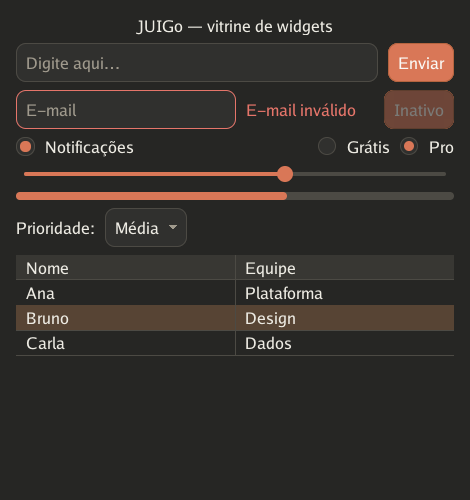
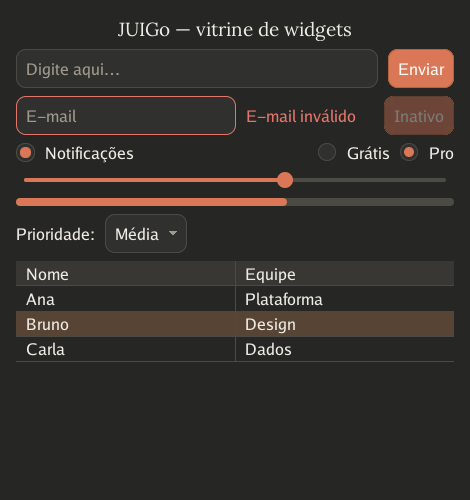
docs: DESIGN.md 2.0 — tipografia, componentes, espaçamento e movimento
O design system vai além das cores: seções de tipografia (papéis, regras
de uso, display trocável), hierarquia de componentes (um primário por
bloco; cartão é agrupamento, não decoração; fio só dentro de
superfícies), régua de espaçamento e movimento (Navigator como o
movimento do sistema). Cena nova 'identidade' no docs/gerar (título
serif, Card com Divider e as três hierarquias de botão) vira a capa do
DESIGN.md e do README; vitrines regeneradas (cabeçalho agora usa
Subtitle). Testes uitest: escala tipográfica decrescente nos dois temas,
variantes por pixels (inclusive hover do ghost), superfície/fio/respiro
do Card e golden incremental da cena de identidade.

diff --git a/uitest/designsystem_test.go b/uitest/designsystem_test.go
@@ -1,0 +1,146 @@
+package uitest_test
+
+import (
+	"bytes"
+	"image"
+	"testing"
+
+	"github.com/JonathanSantos/JUIGo"
+	"github.com/JonathanSantos/JUIGo/uitest"
+)
+
+// TestPapeisTipograficos confere a escala: Título > Subtítulo > corpo >
+// legenda em altura de linha, nos temas Default e Claude (a serif Lora do
+// Claude mede diferente da Go Bold, mas a ORDEM é invariante do sistema).
+func TestPapeisTipograficos(t *testing.T) {
+	titulo := juigo.NewText("Relatório").Title()
+	sub := juigo.NewText("Relatório").Subtitle()
+	corpo := juigo.NewText("Relatório")
+	legenda := juigo.NewText("Relatório").Caption()
+	ui := juigo.NewVBox(titulo, sub, corpo, legenda)
+
+	verifica := func(nome string) {
+		t.Helper()
+		ht, hs, hc, hl := titulo.PreferredSize().Y, sub.PreferredSize().Y,
+			corpo.PreferredSize().Y, legenda.PreferredSize().Y
+		if !(ht > hs && hs > hc && hc > hl) {
+			t.Fatalf("%s: a escala deveria decrescer Título>Subtítulo>corpo>legenda; veio %d/%d/%d/%d",
+				nome, ht, hs, hc, hl)
+		}
+	}
+
+	h := uitest.New(t, ui, 400, 300)
+	verifica("Default")
+
+	claude, err := juigo.ClaudeTheme()
+	if err != nil {
+		t.Fatal(err)
+	}
+	h.Session().SetTheme(claude)
+	h.Layout()
+	verifica("Claude")
+}
+
+// TestBotoesHierarquia confere as três variantes por pixels no tema Claude:
+// primário terracota, secundário na superfície com fio, ghost invisível em
+// repouso e com fundo de hover sob o ponteiro.
+func TestBotoesHierarquia(t *testing.T) {
+	claude, err := juigo.ClaudeTheme()
+	if err != nil {
+		t.Fatal(err)
+	}
+	prim := juigo.NewButton("Pagar", nil)
+	sec := juigo.NewButton("Extrato", nil).Secondary()
+	ghost := juigo.NewButton("Cancelar", nil).Ghost()
+	ui := juigo.NewVBox(prim, sec, ghost).Pad(20).Gap(12)
+	h := uitest.NewWithTheme(t, ui, claude, 300, 260)
+
+	dentro := func(w juigo.Widget) image.Point {
+		b := w.Bounds()
+		return image.Pt(b.Min.X+8, b.Min.Y+b.Dy()/2)
+	}
+	img := h.Screenshot()
+	if got, quer := img.RGBAAt(dentro(prim).X, dentro(prim).Y), claude.ButtonNormal; got != quer {
+		t.Fatalf("primário deveria ser terracota %v; veio %v", quer, got)
+	}
+	if got, quer := img.RGBAAt(dentro(sec).X, dentro(sec).Y), claude.Surface; got != quer {
+		t.Fatalf("secundário deveria ter fundo de superfície %v; veio %v", quer, got)
+	}
+	if got, quer := img.RGBAAt(dentro(ghost).X, dentro(ghost).Y), claude.Background; got != quer {
+		t.Fatalf("ghost em repouso deveria mostrar o papel %v; veio %v", quer, got)
+	}
+
+	h.Hover(uitest.Text("Cancelar"))
+	img = h.Screenshot()
+	if got, quer := img.RGBAAt(dentro(ghost).X, dentro(ghost).Y), claude.HoverBackground; got != quer {
+		t.Fatalf("ghost sob o ponteiro deveria ganhar hover %v; veio %v", quer, got)
+	}
+}
+
+// TestCardEDivider confere superfície, fio e o respiro padrão do cartão.
+func TestCardEDivider(t *testing.T) {
+	claude, err := juigo.ClaudeTheme()
+	if err != nil {
+		t.Fatal(err)
+	}
+	miolo := juigo.NewVBox(juigo.NewText("Conteúdo"), juigo.NewDivider(), juigo.NewText("Resto"))
+	card := juigo.NewCard(miolo)
+	ui := juigo.NewVBox(card).Pad(16)
+	h := uitest.NewWithTheme(t, ui, claude, 320, 240)
+	img := h.Screenshot()
+
+	b := card.Bounds()
+	centroX := b.Min.X + b.Dx()/2
+	if got := img.RGBAAt(centroX, b.Min.Y+4); got != claude.Surface {
+		t.Fatalf("o miolo do cartão deveria ser a superfície %v; veio %v", claude.Surface, got)
+	}
+	if got := img.RGBAAt(centroX, b.Min.Y); got != claude.SurfaceBorder {
+		t.Fatalf("a beirada do cartão deveria ser o fio %v; veio %v", claude.SurfaceBorder, got)
+	}
+	// Respiro padrão: o conteúdo começa 2×Padding para dentro.
+	pad := claude.Px(2 * claude.Padding)
+	if got := miolo.Bounds().Min.X - b.Min.X; got != pad {
+		t.Fatalf("o respiro interno deveria ser %dpx; veio %d", pad, got)
+	}
+}
+
+// TestIncrementalIdentidade é a rede de segurança das dirty regions para os
+// componentes novos: títulos serif, Card, Divider e variantes de botão.
+func TestIncrementalIdentidade(t *testing.T) {
+	claude, err := juigo.ClaudeTheme()
+	if err != nil {
+		t.Fatal(err)
+	}
+	rotulo := juigo.NewText("Fatura").Title()
+	ui := juigo.NewVBox(
+		rotulo,
+		juigo.NewCard(juigo.NewVBox(
+			juigo.NewText("Cobrança").Subtitle(),
+			juigo.NewDivider(),
+			juigo.NewHBox(
+				juigo.NewButton("Cancelar", nil).Ghost(),
+				juigo.NewButton("Extrato", nil).Secondary(),
+				juigo.NewButton("Pagar", nil),
+			).Gap(8),
+		).Gap(8)),
+	).Pad(16).Gap(10)
+	h := uitest.NewWithTheme(t, ui, claude, 420, 260)
+
+	verifica := func(passo string) {
+		t.Helper()
+		incremental := h.Screenshot()
+		h.Session().InvalidateAll()
+		completo := h.Screenshot()
+		if !bytes.Equal(incremental.Pix, completo.Pix) {
+			t.Fatalf("%s: render incremental divergiu do completo", passo)
+		}
+	}
+
+	verifica("frame inicial")
+	h.Hover(uitest.Text("Cancelar"))
+	verifica("hover no ghost")
+	h.Hover(uitest.Text("Pagar"))
+	verifica("hover no primário")
+	rotulo.SetText("Fatura de julho")
+	verifica("título serif maior")
+}

diff --git a/docs/gerar/main.go b/docs/gerar/main.go
@@ -35,7 +35,7 @@ func vitrine() juigo.Widget {
 	}).BindSelected(selecionada)
 
 	return juigo.NewVBox(
-		juigo.NewText("JUIGo — vitrine de widgets").Center(),
+		juigo.NewText("JUIGo — vitrine de widgets").Subtitle().Center(),
 		juigo.NewHBox(
 			juigo.Grow(juigo.NewInput("Digite aqui…"), 1),
 			juigo.NewButton("Enviar", nil),
@@ -61,6 +61,28 @@ func vitrine() juigo.Widget {
 		),
 		tabela,
 	).Pad(16).Gap(8)
+}
+
+// identidade monta a cena do design system: hierarquia tipográfica (Title/
+// Subtitle/Caption), Card com Divider e as três hierarquias de botão.
+func identidade() juigo.Widget {
+	return juigo.NewVBox(
+		juigo.NewText("Fatura de julho").Title(),
+		juigo.NewText("Papel, tinta e terracota").Subtitle(),
+		juigo.NewCard(juigo.NewVBox(
+			juigo.NewText("Cobrança automática").Subtitle(),
+			juigo.NewText("O cartão termina em 4242 e renova no dia 12."),
+			juigo.NewText("Atualizado há 2 minutos").Caption(),
+			juigo.NewDivider(),
+			juigo.NewHBox(
+				juigo.NewSpacer(),
+				juigo.NewButton("Cancelar", nil).Ghost(),
+				juigo.NewButton("Ver extrato", nil).Secondary(),
+				juigo.NewButton("Pagar agora", nil),
+			).Gap(8),
+		).Gap(8)),
+		juigo.NewText("Um título por tela; uma ação primária por bloco.").Caption(),
+	).Pad(16).Gap(10)
 }
 
 // formulario monta o quick.Form com erros revelados (validação em cena).
@@ -164,6 +186,8 @@ func main() {
 	// quadro um pouco maior.
 	salva("vitrine-claude.png", vitrine(), claude, 470, 500)
 	salva("vitrine-claude-escuro.png", vitrine(), claudeEscuro, 470, 500)
+	salva("identidade-claude.png", identidade(), claude, 480, 340)
+	salva("identidade-claude-escuro.png", identidade(), claudeEscuro, 480, 340)
 	salva("quick-form.png", formulario(), claro, 440, 440)
 	salva("todomvc.png", todomvc(), claro, 440, 400)
 	salva("contatos.png", agenda(), claro, 720, 420)

diff --git a/docs/DESIGN.md b/docs/DESIGN.md
@@ -1,12 +1,15 @@
 # Design system "papel e tinta"
 
 A identidade visual pronta do JUIGo, inspirada na linguagem visual pública
-do Claude (Anthropic): papel, tinta e terracota. É uma homenagem aproximada
-— o tema não usa marcas nem representa a Anthropic; as cores vêm da paleta
-térrea publicada na identidade da empresa.
+do Claude (Anthropic): papel, tinta, terracota e uma serif de livro nos
+títulos. É uma homenagem aproximada — o tema não usa marcas nem representa
+a Anthropic; as cores vêm da paleta térrea publicada na identidade da
+empresa, e a serif é a [Lora](https://github.com/cyrealtype/Lora) (OFL),
+embutida.
 
 | Claro | Escuro |
 | --- | --- |
+| ![Identidade, claro](identidade-claude.png) | ![Identidade, escuro](identidade-claude-escuro.png) |
 | ![Vitrine papel e tinta, claro](vitrine-claude.png) | ![Vitrine papel e tinta, escuro](vitrine-claude-escuro.png) |
 
 ```go
@@ -71,6 +74,53 @@ Sintaxe (CodeEditor), na mesma família térrea:
 | `Number` | `#4E7396` (azul-névoa) | `#8FB4D9` |
 | `Comment` | `#8C857A` | `#8F8A80` |
 | `Builtin` | `#9A6B2F` (kraft) | `#D4A27F` |
+
+## Tipografia
+
+A hierarquia vem de PAPÉIS tipográficos do tema, não de tamanhos avulsos:
+
+| Papel | Como usar | Fonte | Tamanho lógico |
+| --- | --- | --- | --- |
+| Título | `NewText("…").Title()` | display (Lora no papel e tinta) | `TitleSize` 24 |
+| Subtítulo | `.Subtitle()` | display | `SubtitleSize` 19 |
+| Corpo | `NewText("…")` | regular (Go) | `FontSize` 16 |
+| Legenda | `.Caption()` | regular, menor | `CaptionSize` 13 |
+
+A fonte de display é um token trocável (`Theme.UseDisplayFont`): Go Bold
+nos temas Default/Dark (hierarquia por peso, zero assets), a serif Lora no
+papel e tinta (`theme.Lora()`; `theme.LoraBold()` para títulos mais
+pesados). Regras de uso: **um Título por tela**, Subtítulo abre seções e
+cartões, legenda para metadados — combine `.Caption()` com
+`Color(Theme.Placeholder)` quando quiser apagá-la junto. Tudo reescala com
+o tema (HiDPI) e troca em runtime.
+
+## Componentes e hierarquia
+
+- **Botões em três níveis:** primário (preenchido de terracota — a ÚNICA
+  ação principal do bloco), `Secondary()` (superfície com fio, texto de
+  tinta — ações comuns) e `Ghost()` (só o rótulo; hover ganha fundo —
+  ações discretas, barras densas). Numa barra de ações, no máximo um
+  primário, à direita.
+- **Card** agrupa conteúdo numa superfície elevada (`Surface` +
+  `SurfaceBorder` + raio do tema, respiro interno de 2×Padding). Cartão é
+  agrupamento, não decoração: se tudo na tela é cartão, nada é.
+- **Divider** separa regiões DENTRO de uma superfície (o fio
+  `SurfaceBorder` com o respiro embutido); entre widgets comuns, prefira
+  espaço (`Gap`) a fios.
+
+## Espaçamento e forma
+
+Tudo em unidades lógicas do tema (escalam no HiDPI): a régua é o `Padding`
+(10) — respiro de controle = 1×, respiro de cartão = 2×, `Gap` entre
+grupos = `Spacing` (10). `Radius` 10 nos controles e superfícies; a faixa
+de pega do SplitPane, recuo da Tree e demais métricas herdam do tema.
+
+## Movimento
+
+O movimento do sistema é o das transições de tela (`Navigator`):
+`Theme.TransitionDuration` de 280ms com easing suave, deslizar para
+avançar/voltar e fade para substituir. Animações extras devem usar
+`anim.Tween` sobre os mesmos timers — nada de movimento decorativo.
 
 ## Estendendo
 

diff --git a/README.md b/README.md
@@ -149,14 +149,18 @@ de verdade e a interface é uma projeção dele.
 
 | Claro | Escuro |
 | --- | --- |
-| ![Papel e tinta, claro](docs/vitrine-claude.png) | ![Papel e tinta, escuro](docs/vitrine-claude-escuro.png) |
+| ![Papel e tinta, claro](docs/identidade-claude.png) | ![Papel e tinta, escuro](docs/identidade-claude-escuro.png) |
 
 Uma identidade completa pronta para usar, inspirada na linguagem visual do
-Claude (Anthropic): papel e tinta como base, terracota exclusiva para
-ações, neutros sempre quentes e formas generosas. `juigo.ClaudeTheme()` e
-`juigo.ClaudeDarkTheme()` compartilham as métricas — alternam em runtime
-sem a interface pular. Os princípios, a tabela de tokens e como estender
-sem perder a identidade estão em [docs/DESIGN.md](docs/DESIGN.md).
+Claude (Anthropic): papel e tinta como base, títulos na serif Lora
+(embutida, OFL), terracota exclusiva para ações, neutros sempre quentes e
+formas generosas. Vem com o sistema inteiro, não só cores: papéis
+tipográficos (`Text.Title/Subtitle/Caption`, fonte de display trocável),
+hierarquia de botões (`Secondary`/`Ghost`), superfícies (`Card`,
+`Divider`) e movimento. `juigo.ClaudeTheme()` e `juigo.ClaudeDarkTheme()`
+compartilham as métricas — alternam em runtime sem a interface pular. Os
+princípios, a tabela de tokens e como estender sem perder a identidade
+estão em [docs/DESIGN.md](docs/DESIGN.md).
 
 ## Formulários com `quick`
 
